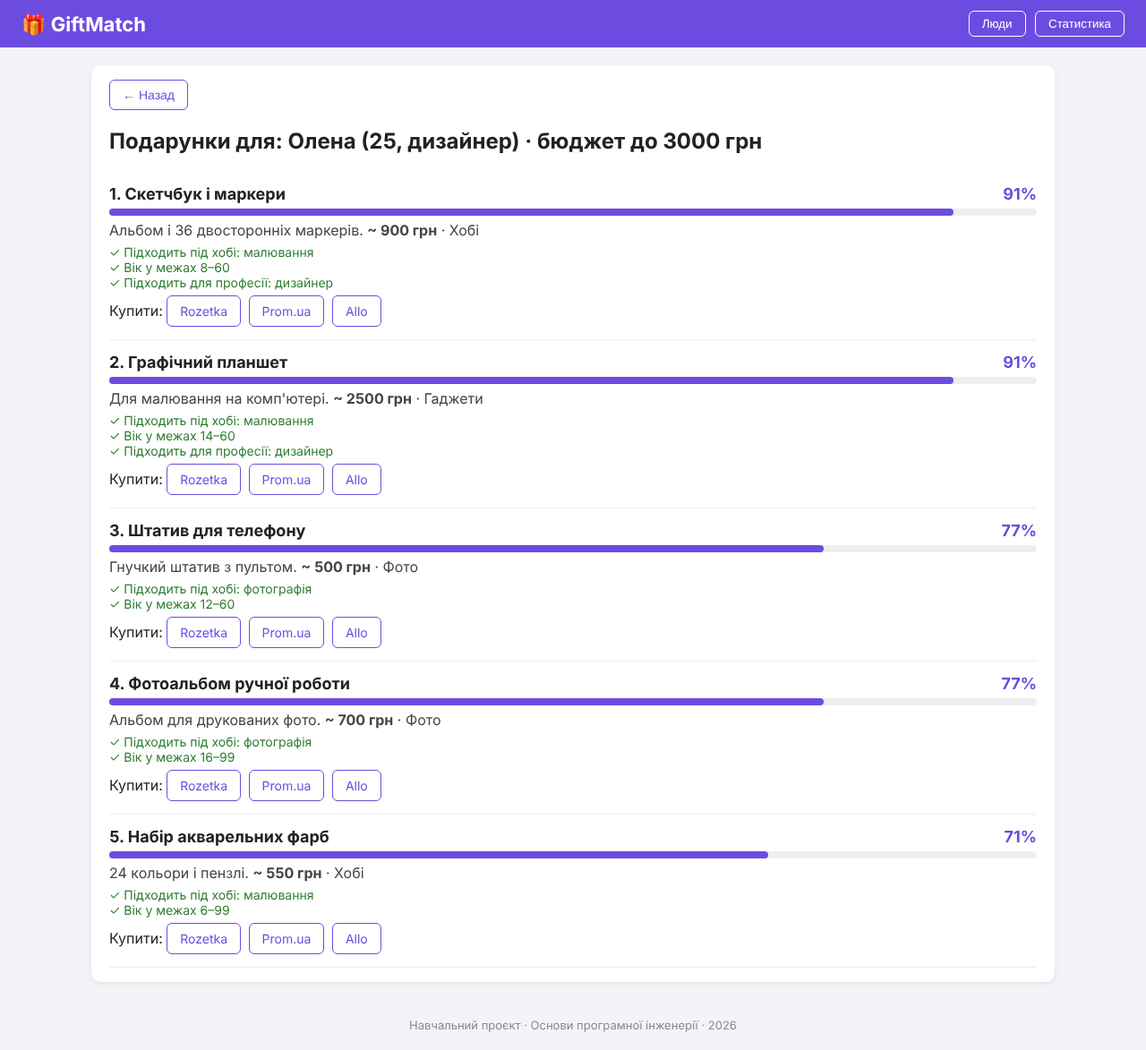
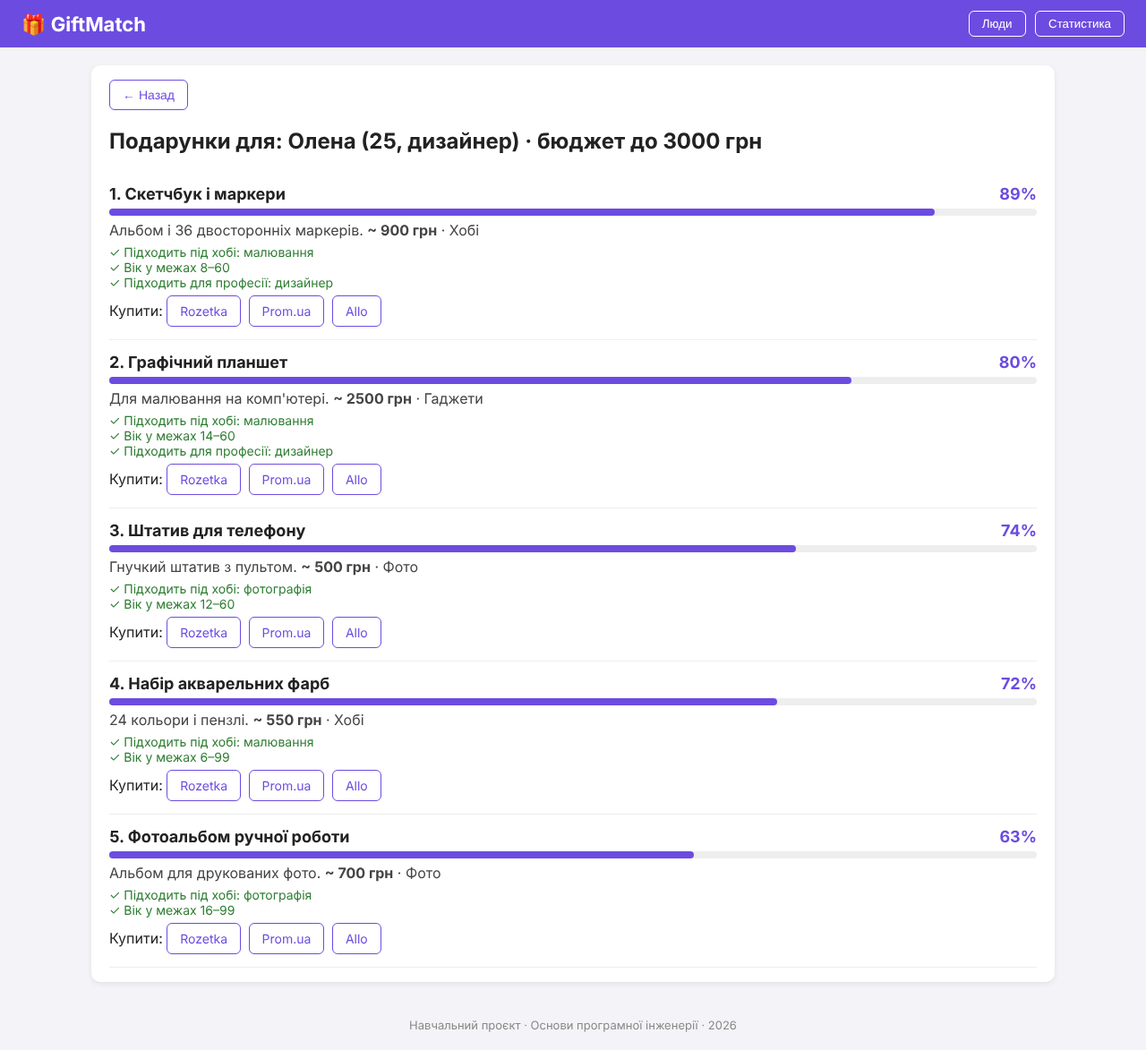
docs: BUG-5 у звіті 18, оновлено README, User Manual, презентацію і звіти під v1.1.1

diff --git a/docs/18-bugs-and-issues.md b/docs/18-bugs-and-issues.md
@@ -19,6 +19,7 @@
 | BUG-2 | Пошук враховує регістр літер | TC-13, TC-14 | High | ✅ Closed |
 | BUG-3 | Ім'я з HTML-тегами показується як HTML | TC-19 | High | ✅ Closed |
 | BUG-4 | «Найпопулярніше хобі» показує одне хобі, коли їх кілька з однаковою кількістю | exploratory | Low | 🔵 Open (Backlog) |
+| BUG-5 | У багатьох подарунків однаковий відсоток (наприклад, усі 5 по 77%) | перевірка перед захистом (v1.1.0) | High | ✅ Closed (v1.1.1) |
 
 ### 3–5. Issues: опис, умови виникнення, пріоритет
 
@@ -117,6 +118,28 @@
 
 ---
 
+#### BUG-5. У багатьох подарунків однаковий відсоток
+
+**Labels:** `bug`, `priority: high`
+
+**Summary:** Усі 5 рекомендованих подарунків мають однаковий відсоток, тому не видно, який подарунок підходить найбільше.
+
+**Environment:** GiftMatch v1.1.0, Google Chrome, `npm run dev`, http://localhost:5173
+
+**Steps to reproduce:**
+1. Додати людину: `Олена`, 25, жіноча, професія `лікар`, бюджет `2000`, хобі: кулінарія, подорожі.
+2. На картці Олени натиснути «🎁 Підібрати подарунок».
+
+**Expected result:** Подарунки мають різний відсоток залежно від того, наскільки вони підходять. Найвідповідніший подарунок — з найбільшим відсотком.
+
+**Actual result:** Усі 5 подарунків — 77%: Портативна колонка, Набір спецій, Скретч-карта світу, Туристичний рюкзак 40 л, Набір для вирощування мікрозелені.
+
+**Чому High:** рейтинг — головна функція продукту. Якщо всі відсотки однакові, користувач не розуміє, що обрати.
+
+**Причина:** кожна характеристика мала тільки 2–3 можливі значення. Хобі: 1 збіг завжди давав 0.8, незалежно від того, чи подарунок саме про це хобі (набір спецій), чи про три різні (колонка). Вік: у межах завжди 1. Тому в усіх п'яти подарунків вийшло 0.45 × 0.8 + 0.25 × 1 + 0.20 × 0.3 + 0.10 × 1 = 0.77. Додатково: якщо подарунок позначений для іншої професії (набір снастей — «пенсіонер»), людина іншої професії отримувала 0 замість нейтрального 0.3, тобто менше, ніж за подарунок «для всіх».
+
+---
+
 ### 6. Виправлення помилок
 
 Кожну помилку виправляв в окремій гілці `fix/...`.
@@ -157,11 +180,35 @@ export function escapeHtml(text: string): string {
 
 і використав її в картці: `${escapeHtml(p.name)}`. Додав 2 автотести на `escapeHtml`.
 
+**BUG-5** (`fix/bug-5-same-score`) — оцінки стали точнішими, коефіцієнти ті самі:
+
+| Характеристика | Було | Стало |
+|---|---|---|
+| Хобі | 1 збіг → 0.8, 2+ → 1.0 | `0.4 + 0.3 × покриття + 0.3 × точність`. Покриття — яка частина хобі людини збіглась. Точність — яка частина хобі подарунка збіглась (подарунок «тільки про кулінарію» точніший, ніж «про музику, подорожі і туризм») |
+| Вік | у межах → 1 | у межах → від 0.5 до 1, чим ближче до середини вікового діапазону подарунка, тим більше |
+| Професія | для іншої професії → 0 | для іншої професії → 0.3 (як «для всіх») |
+
+```ts
+const coverage = matched.length / person.hobbies.length;
+const focus = matched.length / gift.hobbies.length;
+hobbyScore = 0.4 + 0.3 * coverage + 0.3 * focus; // від 0.4 до 1
+```
+
+```ts
+const middle = (gift.minAge + gift.maxAge) / 2;
+const halfRange = (gift.maxAge - gift.minAge) / 2 || 1;
+const closeness = 1 - Math.abs(person.age - middle) / halfRange; // від 0 до 1
+ageScore = 0.5 + 0.5 * closeness;
+```
+
+Сортування тепер іде за точним (не округленим) балом, а при рівному балі першим показується дешевший подарунок. Додав 5 автотестів з позначкою (BUG-5). На старому алгоритмі 4 з них падають, на новому — усі проходять.
+
 Коміти:
 ```
 fix BUG-1: вік приймав дробові числа (25.5)
 fix BUG-2: пошук не знаходив людину, якщо регістр літер відрізнявся
 fix BUG-3: ім'я з HTML-тегами показувалось як HTML (додано escapeHtml)
+fix BUG-5: у багатьох подарунків був однаковий відсоток - точніша оцінка хобі, віку і професії
 ```
 
 ### 7. Повторне тестування
@@ -172,8 +219,11 @@ fix BUG-3: ім'я з HTML-тегами показувалось як HTML (до
 | TC-13 Пошук «оле» | FAIL | ✅ PASS — знайдено «Олена, 25» |
 | TC-14 Пошук «ОЛЕНА» | FAIL | ✅ PASS — знайдено «Олена, 25» |
 | TC-19 `<b>Тест</b>` | FAIL | ✅ PASS — на картці `<b>Тест</b>, 30` |
+| BUG-5 Олена (лікар, кулінарія + подорожі, бюджет 2000) | усі 77% | ✅ PASS — Скретч-карта світу 72%, Дорожня подушка 72%, Кавоварка-турка електрична 70%, Набір спецій 69%, Набір для попкорну 67% |
 
-Також прогнав **усі** інші тест-кейси з практичної №15 (регресійне тестування) — всі PASS. Автотести: 17 з 17 проходять.
+> Для Олени-лікарки відсотки близькі, бо в каталозі немає подарунка, який поєднує кулінарію і подорожі, — усі п'ять підходять приблизно однаково. Різницю краще видно на інших людях, наприклад Олена-дизайнер (малювання + фотографія): Скетчбук і маркери 89%, Графічний планшет 80%, Штатив для телефону 74%.
+
+Також прогнав **усі** інші тест-кейси з практичної №15 (регресійне тестування) — всі PASS. Автотести після BUG-1…BUG-3: 17 з 17, після BUG-5: 26 з 26.
 
 ### 8. Закриття Issues
 
@@ -183,11 +233,11 @@ fix BUG-3: ім'я з HTML-тегами показувалось як HTML (до
 
 BUG-4 залишився відкритим з пріоритетом Low і лежить у колонці Backlog на Kanban-дошці.
 
-Після виправлень випустив версію **v1.0.0**.
+Після виправлень BUG-1…BUG-3 випустив версію **v1.0.0**, після BUG-5 — **v1.1.1**.
 
 ## Результат
 
-5 задокументованих дефектів (4 виправлено і закрито, 1 у backlog) + виправлена версія **v1.0.0**.
+6 задокументованих дефектів (5 виправлено і закрито, 1 у backlog) + виправлені версії **v1.0.0** і **v1.1.1**.
 
 ## Висновок
 

diff --git a/README.md b/README.md
@@ -24,6 +24,17 @@
 бал = 0.45 × хобі + 0.25 × вік + 0.20 × професія + 0.10 × стать   (від 0 до 100%)
 ```
 
+Кожна характеристика оцінюється від 0 до 1:
+
+| Характеристика | Як рахується оцінка |
+|---|---|
+| Хобі | немає збігів → 0; подарунок універсальний → 0.3; є збіг → `0.4 + 0.3 × покриття + 0.3 × точність`, де *покриття* — яка частина хобі людини збіглася, *точність* — яка частина хобі подарунка збіглася |
+| Вік | у межах діапазону подарунка → від 0.5 до 1 (1 — якщо вік у середині діапазону); до 5 років за межами → 0.25; інакше → 0 |
+| Професія | збіг → 1; інакше → 0.3 |
+| Стать | підходить або подарунок для всіх → 1; інакше → 0 |
+
+Приклад: Олена, 25, дизайнер, хобі малювання і фотографія → «Скетчбук і маркери» **89%**, «Графічний планшет» **80%**, «Штатив для телефону» **74%**.
+
 Як продукт заробляє: посилання на Rozetka, Prom.ua і Allo містять партнерську мітку `utm_source=giftmatch`. За переходи і покупки з такою міткою маркетплейси платять власнику сервісу. Статистику переходів видно на сторінці «Статистика».
 
 ## Можливості
@@ -64,7 +75,7 @@ npm run dev
 
 | Команда | Що робить |
 |---|---|
-| `npm test` | запускає автотести (21 тест) |
+| `npm test` | запускає автотести (26 тестів) |
 | `npm run build` | перевіряє типи і збирає сайт у папку `dist/` |
 | `npm run preview` | показує зібрану версію |
 
@@ -126,6 +137,7 @@ gift-match/
 | v0.2.0 | функціональний прототип: підбір, маркетплейси, редагування, пошук, статистика, імпорт/експорт |
 | v1.0.0 | автотести, виправлені помилки BUG-0…BUG-3 |
 | v1.1.0 | бюджет (нова вимога) |
+| v1.1.1 | точніший рейтинг: подарунки більше не отримують однаковий відсоток (BUG-5) |
 
 ## Обмеження
 

diff --git a/docs/PRESENTATION.md b/docs/PRESENTATION.md
@@ -39,8 +39,13 @@
 | Професія | 0.20 |
 | Стать | 0.10 |
 
-Приклад: Олена, 25, дизайнер, малювання → «Скетчбук і маркери»
-0.45×0.8 + 0.25×1 + 0.20×1 + 0.10×1 = **91%**
+Кожна характеристика — оцінка від 0 до 1:
+- хобі: скільки хобі людини збіглось і наскільки подарунок саме про них
+- вік: чим ближче до середини вікового діапазону подарунка, тим краще
+- професія: збіг → 1, інакше 0.3; стать: підходить → 1
+
+Приклад: Олена, 25, дизайнер, малювання + фотографія →
+«Скетчбук і маркери» **89%**, «Графічний планшет» **80%**, «Штатив» **74%**
 
 ---
 
@@ -59,7 +64,7 @@
 
 - Ітераційна модель + Kanban (GitHub Projects)
 - 11 User Stories, MVP = 6 Must
-- 4 спринти, версії v0.1.0 → v0.2.0 → v1.0.0 → v1.1.0
+- 4 спринти, версії v0.1.0 → v0.2.0 → v1.0.0 → v1.1.0 → v1.1.1
 - Git: гілка на кожну задачу, Pull Request, 2 вирішені конфлікти
 
 ---
@@ -78,7 +83,8 @@
 ## Слайд 8. Якість
 
 - 20 ручних тест-кейсів → знайдено 3 дефекти
-- 21 автотест (Vitest) → знайдено помилку «бал 109%»
+- 26 автотестів (Vitest) → знайдено помилку «бал 109%»
+- BUG-5: у багатьох подарунків був однаковий відсоток → уточнили формулу (v1.1.1)
 - Усі High/Medium дефекти виправлені і перевірені повторно
 - Найцікавіший баг: ім'я `<b>Тест</b>` виконувалось як HTML (XSS)
 
@@ -123,4 +129,4 @@
 6. **Додати ще людину:** Андрій, 19, чоловіча, студент, хобі: музика, ігри.
 7. **Пошук:** ввести `МУЗИКА` → видно тільки Андрія.
 8. **Статистика:** меню «Статистика» → 2 людини, переходи Rozetka: 1.
-9. **Тести:** у терміналі `npm test` → 21 passed.
+9. **Тести:** у терміналі `npm test` → 26 passed.

diff --git a/docs/20-documentation-presentation.md b/docs/20-documentation-presentation.md
@@ -64,12 +64,12 @@
 | Код у `src/`, тести в `tests/`, документація в `docs/` | ✅ |
 | Діаграми Mermaid відображаються на GitHub | ✅ |
 | Посилання в README на всі документи працюють | ✅ |
-| `npm test` — 21 тест проходить | ✅ |
+| `npm test` — 26 тестів проходять | ✅ |
 | `npm run build` — збирається без помилок | ✅ |
-| Є теги версій `v0.1.0`, `v0.2.0`, `v1.0.0`, `v1.1.0` | ✅ |
+| Є теги версій `v0.1.0`, `v0.2.0`, `v1.0.0`, `v1.1.0`, `v1.1.1` | ✅ |
 | Історія комітів зрозуміла, коміти українською з описом | ✅ |
 
-На GitHub для тегу `v1.1.0` створив **Release** (вкладка *Releases → Draft a new release*) з описом змін.
+На GitHub для тегу `v1.1.1` створив **Release** (вкладка *Releases → Draft a new release*) з описом змін.
 
 ### 8. Презентація
 
@@ -107,14 +107,14 @@
 | User Stories | 11 (усі реалізовані) |
 | Подарунків у каталозі | 50 |
 | Ручних тест-кейсів | 20 |
-| Автотестів | 21 |
-| Знайдено і виправлено дефектів | 4 (+1 у backlog) |
-| Версій | 4 |
+| Автотестів | 26 |
+| Знайдено і виправлено дефектів | 5 (+1 у backlog) |
+| Версій | 5 |
 | Звітів з практичних | 20 |
 
 ## Результат
 
-Завершений програмний продукт GiftMatch v1.1.0 + документація (README, User Manual, 20 звітів) + презентація + демонстрація.
+Завершений програмний продукт GiftMatch v1.1.1 + документація (README, User Manual, 20 звітів) + презентація + демонстрація.
 
 ## Висновок
 

diff --git a/docs/17-project-management.md b/docs/17-project-management.md
@@ -95,7 +95,7 @@
 
 Як рухається картка: **To Do → In Progress** (створюю гілку) → **Review / Test** (відкрито Pull Request, перевіряю) → **Done** (злито в `main`). У GitHub Projects це можна автоматизувати: в *Workflows* увімкнути «Item closed → Done» і «Pull request merged → Done».
 
-Підсумок по спринтах: усі 4 спринти закрито, всі 11 User Stories в колонці **Done**, BUG-1…BUG-3 закриті, BUG-4 залишився в Backlog з пріоритетом Low.
+Підсумок по спринтах: усі 4 спринти закрито, всі 11 User Stories в колонці **Done**, BUG-1…BUG-3 закриті, BUG-4 залишився в Backlog з пріоритетом Low. Після спринтів, під час підготовки до захисту, знайдено BUG-5 (однаковий відсоток у подарунків, High) — його картка пройшла To Do → In Progress → Review / Test → Done, виправлено у версії 1.1.1.
 
 ## Результат
 

diff --git a/docs/15-manual-testing.md b/docs/15-manual-testing.md
@@ -295,6 +295,8 @@
 
 Знайдені дефекти описані і виправлені в практичній №18. Після виправлення ці тест-кейси пройдені повторно (PASS).
 
+> **Повторний прогін на v1.1.1** (після BUG-5 змінилась формула відсотків): усі 20 тест-кейсів — PASS. Змінились тільки конкретні значення в TC-16 і TC-17. TC-16 тепер показує: Настільна гра «Каркасон» 84%, Ігрова миша 80%, Бездротові навушники 78%, Геймпад для ПК 74%, Укулеле для початківців 73%. У TC-17 «Бездротові навушники» тепер на 3-му місці, кроки ті самі: кнопка «Rozetka» під цим подарунком.
+
 ## Результат
 
 Набір з 20 тест-кейсів, результати ручного тестування (16 PASS, 4 FAIL, 3 дефекти).

diff --git a/docs/14-implementation-integration.md b/docs/14-implementation-integration.md
@@ -46,6 +46,8 @@
                                     сума = 0.91 → 91%
 ```
 
+> **Примітка:** це перша версія алгоритму (v0.2.0). У версії 1.1.1 формулу оцінок хобі, віку і професії уточнено, бо багато подарунків отримували однаковий відсоток (BUG-5, див. практичну №18). Коефіцієнти залишились ті самі.
+
 Функція `recommend()` рахує бал для всіх подарунків, прибирає ті, де бал 0, сортує від більшого до меншого і бере перші 5.
 
 Біля кожного подарунка є причини, чому він підходить: «Підходить під хобі: малювання», «Вік у межах 8–60», «Підходить для професії: дизайнер».

diff --git a/docs/16-automated-testing.md b/docs/16-automated-testing.md
@@ -164,7 +164,7 @@ hobbyScore = Math.min(1, 0.6 + 0.2 * matched.length);
 fix: оцінка за хобі не може бути більше 1 (бал був 109% при 3 збігах)
 ```
 
-> Пізніше тестів стало більше: при виправленні дефектів (практична №18) я додав тести на BUG-1 і BUG-3, а при зміні вимог (практична №19) — тести на бюджет. Зараз їх **21** у 4 файлах, і всі проходять.
+> Пізніше тестів стало більше: при виправленні дефектів (практична №18) я додав тести на BUG-1, BUG-3 і BUG-5, а при зміні вимог (практична №19) — тести на бюджет. Зараз їх **26** у 4 файлах, і всі проходять.
 
 ## Результат
 
